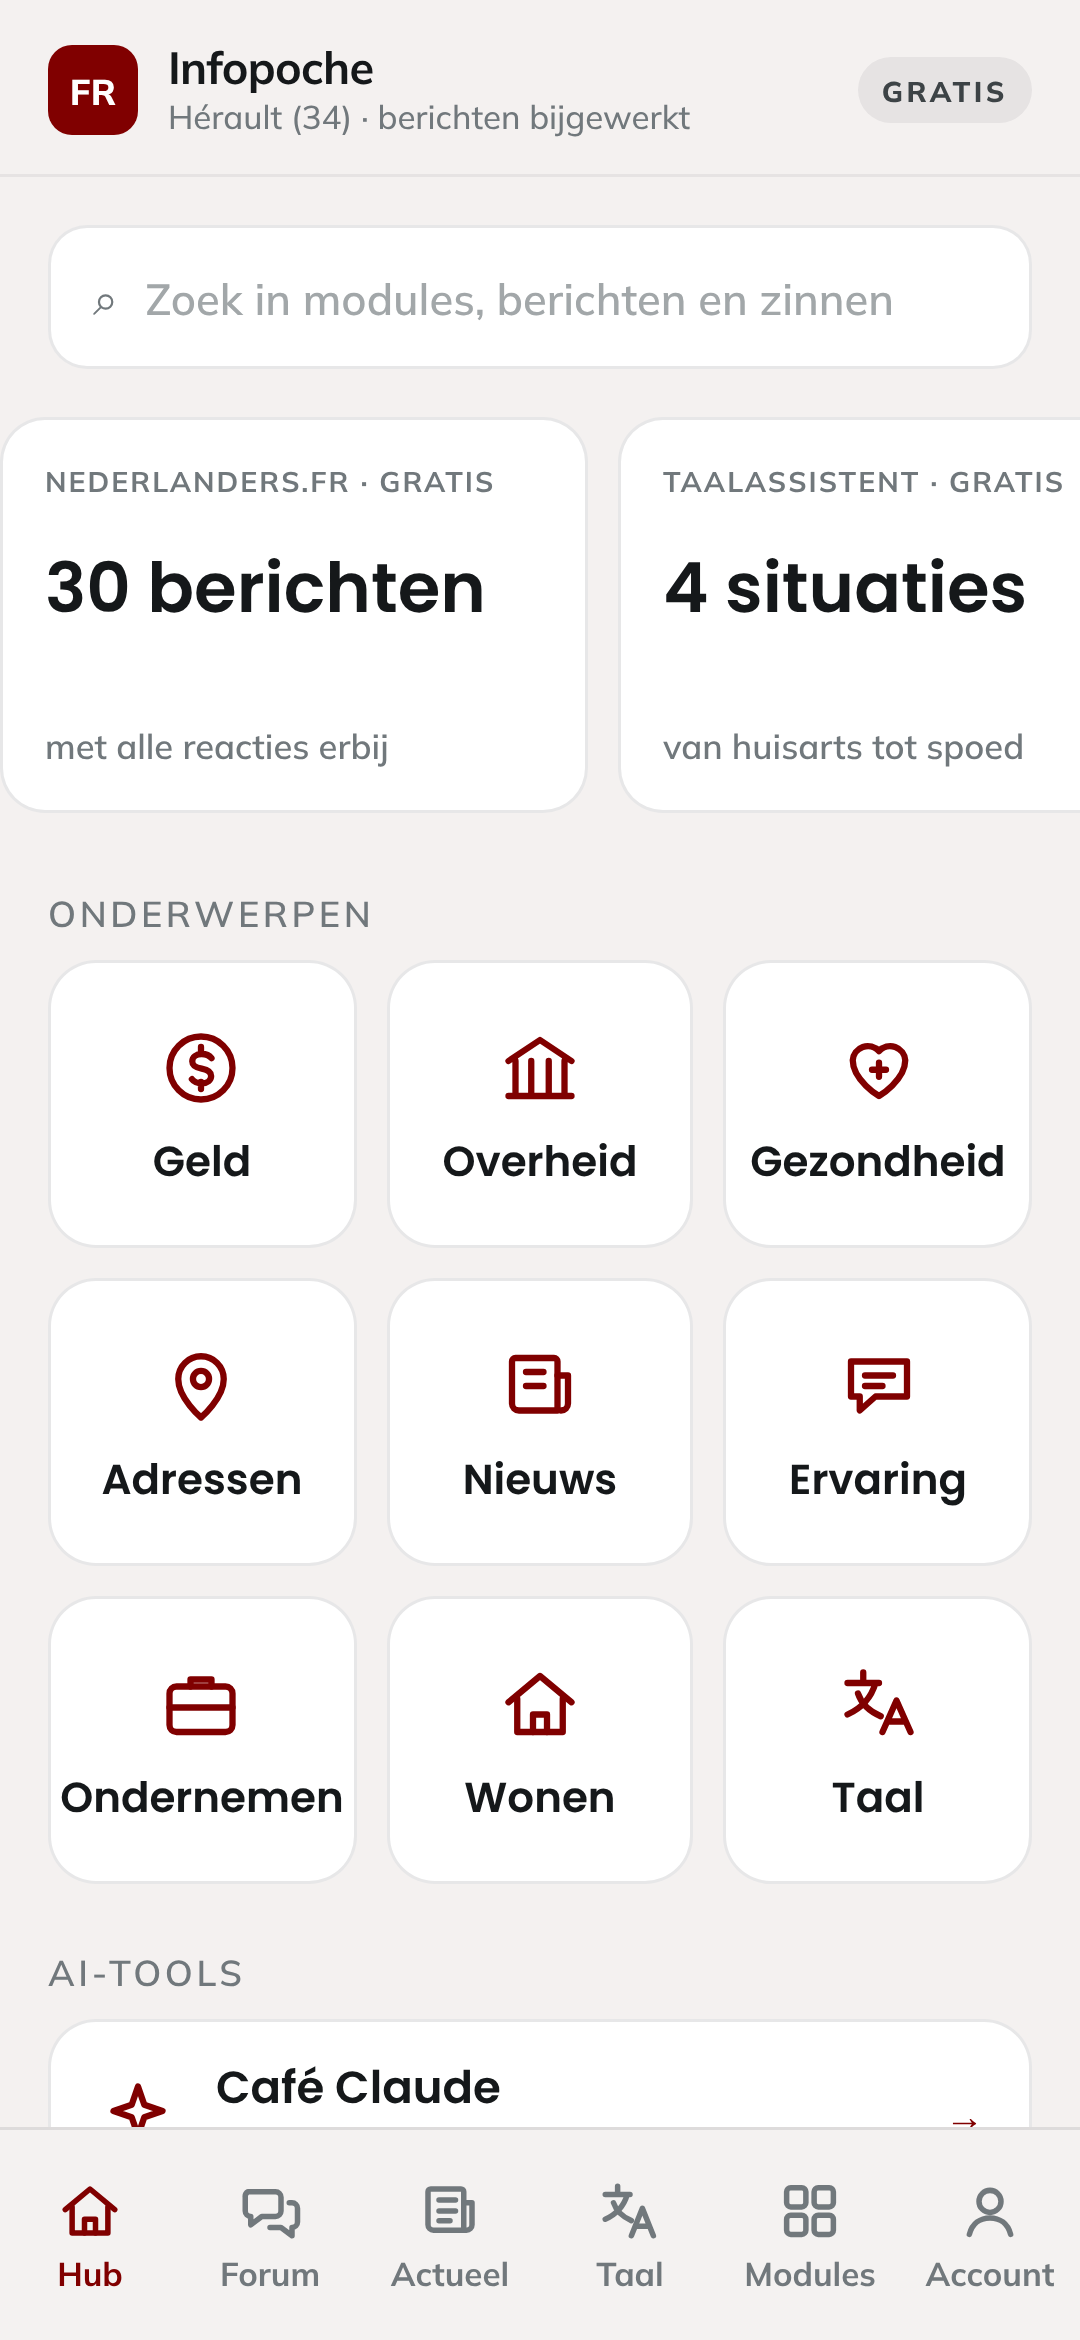
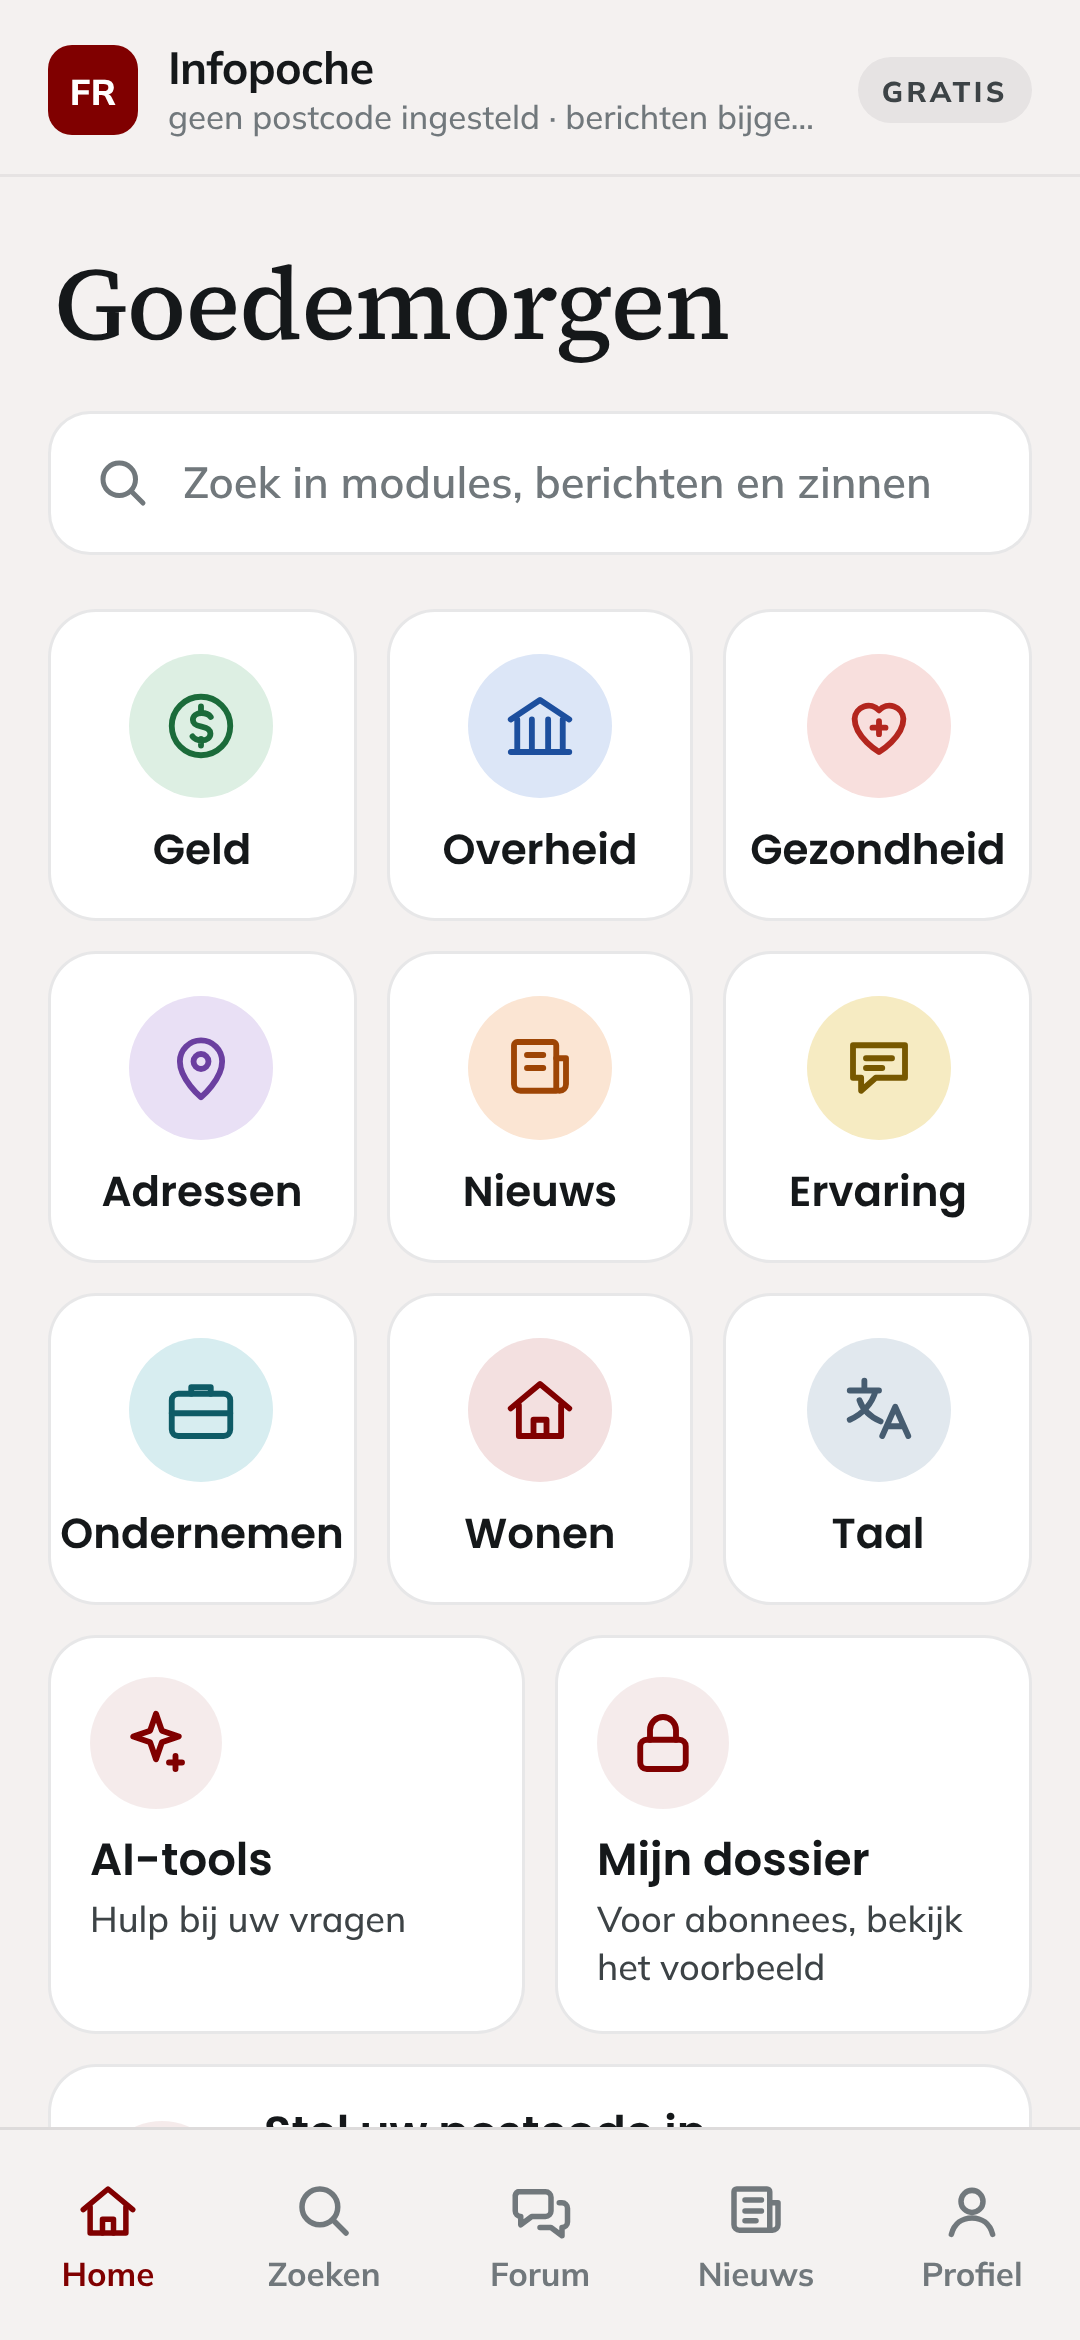
Manifest-screenshots van de nieuwe hub, 'Account' wordt 'Profiel' in teksten, dode offline-tekst weg
Claude-Session: https://claude.ai/code/session_01KsxjpAwtwU6bPyHRMCfJPv

diff --git a/index.html b/index.html
@@ -2335,7 +2335,7 @@ input,button{font-family:Mulish,system-ui,sans-serif}
     <div style="width:38px;height:4px;border-radius:2px;background:rgba(21,24,26,.14);margin:0 auto 16px"></div>
     <div style="font:700 10.5px Mulish;letter-spacing:.12em;text-transform:uppercase;color:#800000">Eén vraag</div>
     <h2 style="font-family:'Source Serif 4',Georgia,serif;font-weight:500;font-size:23px;line-height:1.15;margin:7px 0 0">Waar woont u?</h2>
-    <p style="font:500 13px/1.75 Mulish;color:#3D4346;margin:8px 0 0;text-wrap:pretty">Alleen de postcode. De app toont dan uw departement in de kopregel, richt de wegwijzer Nedergids erop en zegt bij Veiligheid &amp; natuur welk departement u op de kaart moet opzoeken; meer doet hij er nu niet mee. De postcode blijft op uw toestel en is bij Account te wijzigen.</p>
+    <p style="font:500 13px/1.75 Mulish;color:#3D4346;margin:8px 0 0;text-wrap:pretty">Alleen de postcode. De app toont dan uw departement in de kopregel, richt de wegwijzer Nedergids erop en zegt bij Veiligheid &amp; natuur welk departement u op de kaart moet opzoeken; meer doet hij er nu niet mee. De postcode blijft op uw toestel en is bij Profiel te wijzigen.</p>
     <input value="{{ pcInvoer }}" onInput="{{ onPc }}" inputmode="numeric" placeholder="34360" aria-label="Postcode" style="width:100%;min-height:56px;margin-top:16px;border:1px solid rgba(128,0,0,.20);border-radius:13px;padding:0 16px;font:700 20px Mulish;letter-spacing:.08em;color:#15181A;background:#F4F1F0">
     <button onClick="{{ bewaarPc }}" style="width:100%;min-height:52px;border:0;border-radius:13px;background:{{ pcKnopBg }};color:{{ pcKnopFg }};font:800 15px Mulish;cursor:pointer;margin-top:12px">Bewaren</button>
     <button onClick="{{ slaPcOver }}" style="width:100%;min-height:46px;border:0;background:none;color:#71787C;font:600 13px Mulish;cursor:pointer;margin-top:4px">{{ pcLaterLabel }}</button>
@@ -2409,7 +2409,7 @@ const CAT = [
   ["Administratie &amp; zorg", [
     ["Correspondentie-assistent", "brieven in correct Frans", "tool", 0, DOT.admin],
     ["Carte Vitale-status", "aanvraag volgen", "tool", 0, DOT.gezond],
-    ["Documentenkluis", "offline beschikbaar", "tool", 0, DOT.admin]]]
+    ["Documentenkluis", "bewaar uw documenten", "tool", 0, DOT.admin]]]
 ];
 
 const SC = [
@@ -2580,7 +2580,7 @@ const PREVIEW = {
     uit:[["Uw verwachte doorlooptijd","•• weken"],["Uw volgende actie","••••"],["Uw tijdelijke bewijs","••••"]] },
   "Documentenkluis": { doet:"Uw justificatifs versleuteld op de telefoon, ook zonder bereik — met een waarschuwing zodra een stuk te oud wordt voor een loket.",
     vb:"Zeven documenten bewaard, twee verlopen binnenkort",
-    rows:[["Bewaard","7 documenten"],["Verloopt binnenkort","justificatif de domicile"],["Offline beschikbaar","alles"],["Versleuteld","ja, op het toestel"]],
+    rows:[["Bewaard","7 documenten"],["Verloopt binnenkort","justificatif de domicile"],["Versleuteld","ja, op het toestel"]],
     intake:[["Wat wilt u bewaren",["identiteit","woning","zorg","auto"]],["Beschikbaar",["alleen offline","ook op laptop"]]],
     uit:[["Uw kluis","•• documenten"],["Uw verloopwaarschuwingen","••"],["Synchronisatie","••••"]] }
 };
@@ -4325,7 +4325,7 @@ class Component extends DCLogic {
       vgHeeftReken: this.zichtbaarNu(this.vindModule("transactiekosten")),
       goNedergids: () => this.route(this.vindModule("nedergids")),
       ngRegel: depNaam ? "loketten en sites in " + depNaam : "loketten, registers en nuttige sites",
-      pcRegel: depNaam ? "Uw postcode " + pc + " valt in " + depNaam + "; de loketten worden daarop gericht zodra de kaart live is." : "Vul uw postcode in bij Account om dit op uw omgeving te richten.",
+      pcRegel: depNaam ? "Uw postcode " + pc + " valt in " + depNaam + "; de loketten worden daarop gericht zodra de kaart live is." : "Vul uw postcode in bij Profiel om dit op uw omgeving te richten.",
       ngCats: [{id:"alles", naam:"Alles"}].concat(ngCats).map(c => ({
         naam:c.naam, style:this.chipStyle(st.ngCat === c.id),
         pick:() => this.setState({ngCat:c.id})})),
